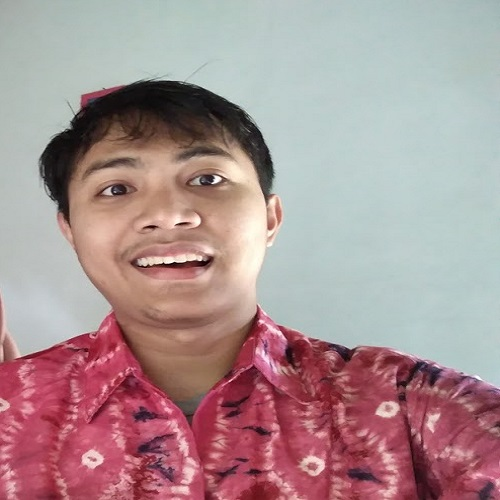
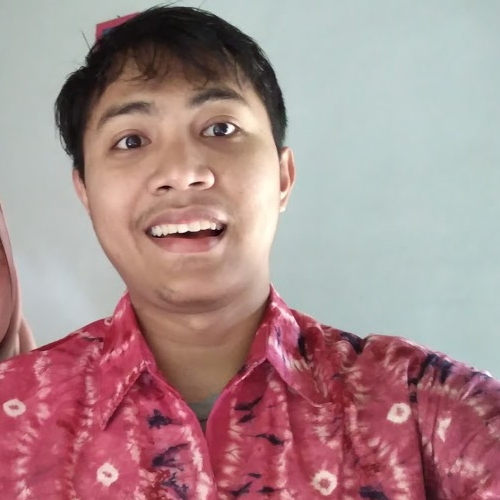
update profile

diff --git a/index.html b/index.html
@@ -31,7 +31,7 @@
       <a class="navbar-brand js-scroll-trigger" href="#page-top">
         <span class="d-block d-lg-none">Start Bootstrap</span>
         <span class="d-none d-lg-block">
-          <img class="img-fluid img-profile rounded-circle mx-auto mb-2" src="img/profile.jpg" alt="">
+          <img class="img-fluid img-profile rounded-circle mx-auto mb-2" src="img/profile2.jpg" alt="">
         </span>
       </a>
       <button class="navbar-toggler" type="button" data-toggle="collapse" data-target="#navbarSupportedContent" aria-controls="navbarSupportedContent" aria-expanded="false" aria-label="Toggle navigation">
@@ -107,45 +107,34 @@
 
           <div class="resume-item d-flex flex-column flex-md-row mb-5">
             <div class="resume-content mr-auto">
-              <h3 class="mb-0">Senior Web Developer</h3>
-              <div class="subheading mb-3">Intelitec Solutions</div>
+              <h3 class="mb-0">Database Enggineer</h3>
+              <div class="subheading mb-3">PT. Indonesia Commodity & Derivatives Exchange (ICDX)</div>
               <p>Bring to the table win-win survival strategies to ensure proactive domination. At the end of the day, going forward, a new normal that has evolved from generation X is on the runway heading towards a streamlined cloud solution. User generated content in real-time will have multiple touchpoints for offshoring.</p>
             </div>
             <div class="resume-date text-md-right">
-              <span class="text-primary">March 2013 - Present</span>
+              <span class="text-primary">January 2018 - Present</span>
             </div>
           </div>
 
           <div class="resume-item d-flex flex-column flex-md-row mb-5">
             <div class="resume-content mr-auto">
-              <h3 class="mb-0">Web Developer</h3>
-              <div class="subheading mb-3">Intelitec Solutions</div>
+              <h3 class="mb-0">Database Administrator</h3>
+              <div class="subheading mb-3">PT. Namasindo Plas</div>
               <p>Capitalize on low hanging fruit to identify a ballpark value added activity to beta test. Override the digital divide with additional clickthroughs from DevOps. Nanotechnology immersion along the information highway will close the loop on focusing solely on the bottom line.</p>
             </div>
             <div class="resume-date text-md-right">
-              <span class="text-primary">December 2011 - March 2013</span>
+              <span class="text-primary">April 2015 - January 2018</span>
             </div>
           </div>
 
           <div class="resume-item d-flex flex-column flex-md-row mb-5">
             <div class="resume-content mr-auto">
-              <h3 class="mb-0">Junior Web Designer</h3>
-              <div class="subheading mb-3">Shout! Media Productions</div>
+              <h3 class="mb-0">IT Support</h3>
+              <div class="subheading mb-3">PT. Namasindo Plas</div>
               <p>Podcasting operational change management inside of workflows to establish a framework. Taking seamless key performance indicators offline to maximise the long tail. Keeping your eye on the ball while performing a deep dive on the start-up mentality to derive convergence on cross-platform integration.</p>
             </div>
             <div class="resume-date text-md-right">
-              <span class="text-primary">July 2010 - December 2011</span>
-            </div>
-          </div>
-
-          <div class="resume-item d-flex flex-column flex-md-row">
-            <div class="resume-content mr-auto">
-              <h3 class="mb-0">Web Design Intern</h3>
-              <div class="subheading mb-3">Shout! Media Productions</div>
-              <p>Collaboratively administrate empowered markets via plug-and-play networks. Dynamically procrastinate B2C users after installed base benefits. Dramatically visualize customer directed convergence without revolutionary ROI.</p>
-            </div>
-            <div class="resume-date text-md-right">
-              <span class="text-primary">September 2008 - June 2010</span>
+              <span class="text-primary">November 2012 - March 2015</span>
             </div>
           </div>
 
